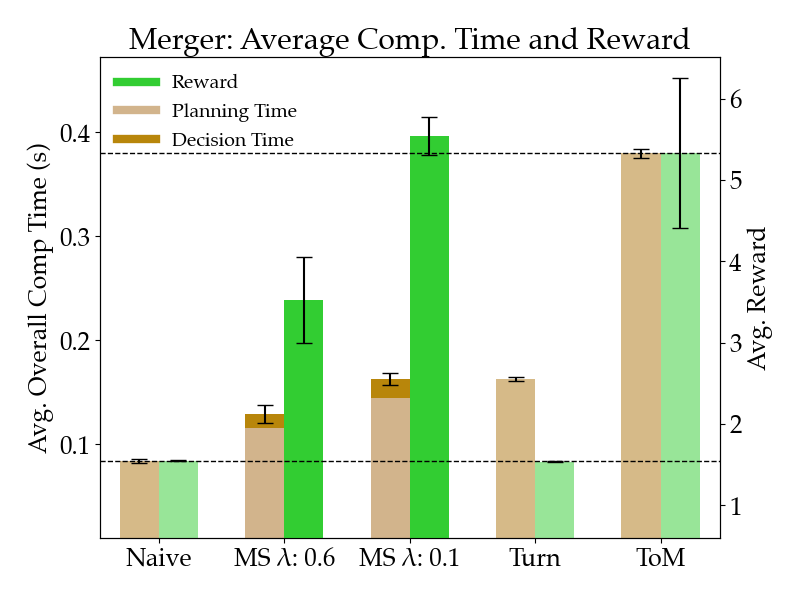
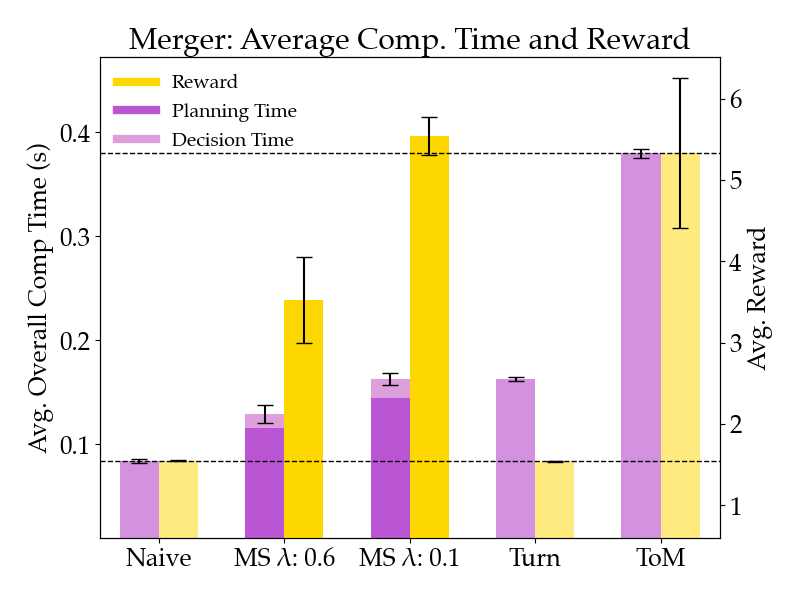
changed colors

diff --git a/experiments/logs/display_results.py b/experiments/logs/display_results.py
@@ -54,9 +54,9 @@ plt.rcParams.update({'hatch.linewidth': 3,
                      'figure.figsize': (8, 6)})
 P_STYLE = {'alpha': 0.5}
 
-RC = 'limegreen'
-PTC = 'tan'
-DTC = 'darkgoldenrod'
+RC = 'gold'
+PTC = 'mediumorchid'
+DTC = 'plum'
 
 N = len(names)
 bar_width = 0.25
